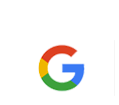
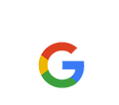
maj nav

Changed region(s): [[0.3025, 0.4, 0.7311, 0.8857]]

diff --git a/style.css b/style.css
@@ -106,7 +106,7 @@ li a :hover {
     border-radius: 6px;
     display: inline-block;
     z-index: 4;
-    margin-top: 17%;
+    margin-top: 10%;
     margin-left: 18%;
 }
 
